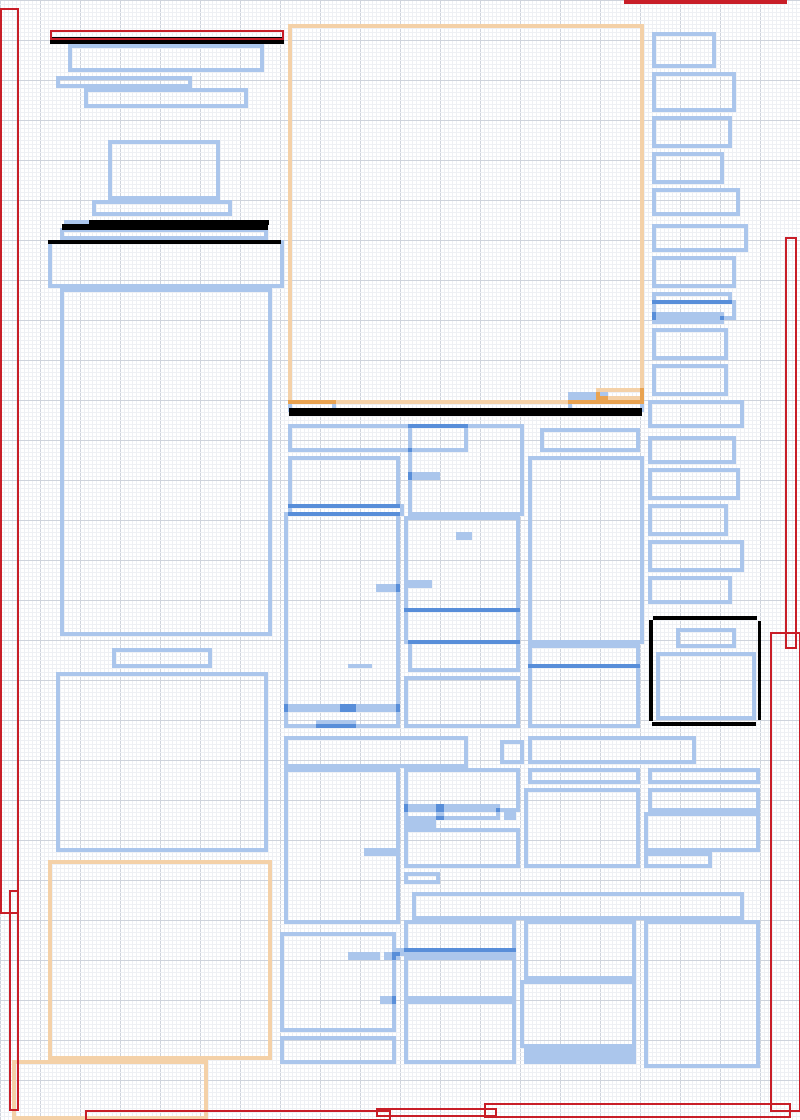
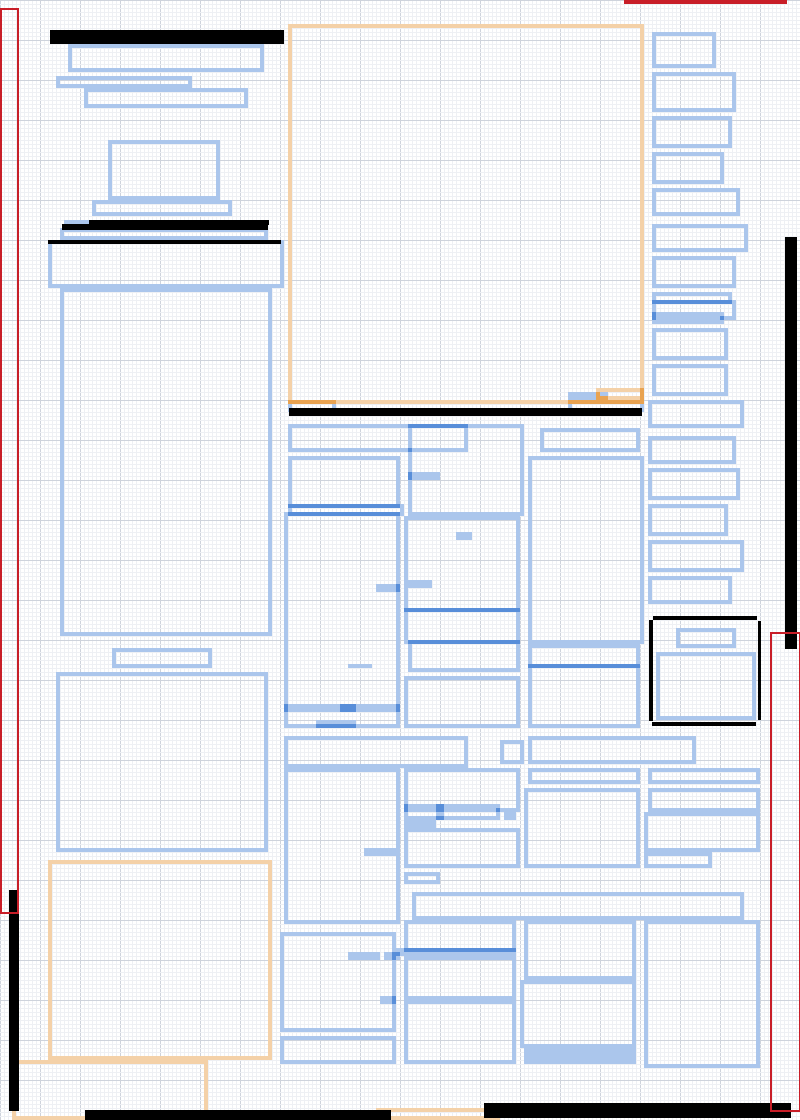
block_grid: two random pages, and two real faults they exposed
Rendered 1990-10-10 p5 and 1986-01-08 p4, picked at random from the 90.
Both broke the shadow test in ways p4 alone could not show.

FAULT 1 -- the edge was taken as the NEAREST in any direction, so a
full-width horizontal rule was dropped because its right END reached the
margin. 1990-10-10 p5: x 35.15-96.18 at y 43.39-43.67, 122 cells long,
sitting in the middle of the page, printing. Three of the eight items
dropped on that page were this, all PERPENDICULAR to the edge they were
charged against. A binding shadow lies ALONG the edge it came from, so
the edge tested is now the one the sliver runs parallel to.

FAULT 2 -- thin-and-near-an-edge drops real printing, because the page
margin IS 7-9 cells and the band cannot avoid reaching the content edge.
1990-10-10 p5's left panel border (x 3.92-4.40, 19x5197px, the full
height of the panel) was dropped as a shadow; the content edge on that
page is 3.84%. Measured, 244 of 773 dropped items lay wholly INSIDE the
content area -- 32% false positives.

The fix is the user's own agreement idea: a shadow is corroborated by
nothing, printing by the column it belongs to. On p5 the panel border
agrees with 15 other items, the right-hand rule with 11, the true binding
shadow at x 99.11-99.31 with none. Dropped 773 -> 110 corpus-wide, of
which 3 (not 244) lie inside the content area.

OPEN, AND VISIBLE IN THE RENDER: precision is now high and recall is not.
Shadows that pair up corroborate EACH OTHER and survive. 1980-04-06 p4
[…]

diff --git a/transcribe/scaled/experiments/block_grid.py b/transcribe/scaled/experiments/block_grid.py
@@ -78,7 +78,7 @@ def build(conn, page_id: str):
     every = _items(conn, page_id)
     shadows, kept = [], []
     for i in every:
-        (shadows if _is_shadow(i, cw, chh) else kept).append(i)
+        (shadows if _is_shadow(i, cw, chh, every) else kept).append(i)
 
     counts = [[0] * n_cols for _ in range(n_rows)]
     owner = [[None] * n_cols for _ in range(n_rows)]
@@ -110,8 +110,44 @@ THIN_CELLS = 8.0
 EDGE_BAND_CELLS = 8.0
 
 
-def _is_shadow(i, cw, chh):
-    """A scan shadow: a sliver lying near a page edge.
+MIN_AGREE = 2
+
+
+def _agreement(i, others, cw, chh, vertical):
+    """How many other items share this sliver's position on its long axis.
+
+    A vertical sliver is asked about x, a horizontal one about y, and
+    either of its two edges may be the one that matches -- a rule sitting
+    in a gutter has the column to its left ending on it and the column to
+    its right starting on it.
+    """
+    tol = cw if vertical else chh
+    a1, a2 = (i["L"], i["R"]) if vertical else (i["T"], i["B"])
+    n = 0
+    for j in others:
+        if j is i:
+            continue
+        b1, b2 = (j["L"], j["R"]) if vertical else (j["T"], j["B"])
+        if min(abs(b1 - a1), abs(b2 - a2),
+               abs(b1 - a2), abs(b2 - a1)) <= tol:
+            n += 1
+    return n
+
+
+def _is_shadow(i, cw, chh, others=()):
+    """A scan shadow: a sliver lying ALONG a page edge.
+
+    The edge tested is the one the sliver runs PARALLEL to, which is the
+    only one it can be hugging. A binding shadow or a sheet edge lies
+    along the edge it came from; it does not cross the page.
+
+    Taking the nearest edge in any direction instead was wrong, and
+    1990-10-10 p5 showed it: a full-width horizontal rule at y 43.39-43.67
+    spanning x 35.15-96.18 was dropped because its right END reaches
+    within 7.6 cells of the right margin. It is 122 cells long, sits in
+    the middle of the page, and is printing. Three of the eight items
+    dropped on that page were this mistake, all perpendicular to the edge
+    they were charged against.
 
     Separators and photos only. A block with words is real type, and the
     same test applied to blocks drops 664 of 8,969 corpus-wide -- narrow
@@ -120,9 +156,29 @@ def _is_shadow(i, cw, chh):
     if i["kind"] not in ("ocr_separator", "ocr_photo"):
         return False
     w, h = (i["R"] - i["L"]) / cw, (i["B"] - i["T"]) / chh
-    edge = min(i["L"] / cw, (100 - i["R"]) / cw,
-               i["T"] / chh, (100 - i["B"]) / chh)
-    return min(w, h) <= THIN_CELLS and edge <= EDGE_BAND_CELLS
+    if min(w, h) > THIN_CELLS:
+        return False
+    vertical = h >= w
+    if vertical:
+        edge = min(i["L"] / cw, (100 - i["R"]) / cw)
+    else:
+        edge = min(i["T"] / chh, (100 - i["B"]) / chh)
+    if edge > EDGE_BAND_CELLS:
+        return False
+    # AND NOTHING AGREES WITH IT.
+    #
+    # Thin-and-near-an-edge alone drops real printing: the page margin is
+    # 7-9 cells, so the band unavoidably reaches the content edge, and a
+    # box border sitting ON that edge looks exactly like a shadow.
+    # Measured, 244 of 773 items it dropped lay wholly INSIDE the content
+    # area -- 32% false positives. 1990-10-10 p5's left panel border
+    # (x 3.92-4.40, 19x5197px, the full height of the panel) was one.
+    #
+    # A shadow is corroborated by nothing; printing is corroborated by the
+    # column it belongs to. On that page the panel border agrees with 15
+    # other items, the right-hand rule with 11, and the true binding
+    # shadow at x 99.11-99.31 with none.
+    return _agreement(i, others, cw, chh, vertical) < MIN_AGREE
 
 
 def render(counts, owner, kept, shadows, n_cols, n_rows, cw, chh,
